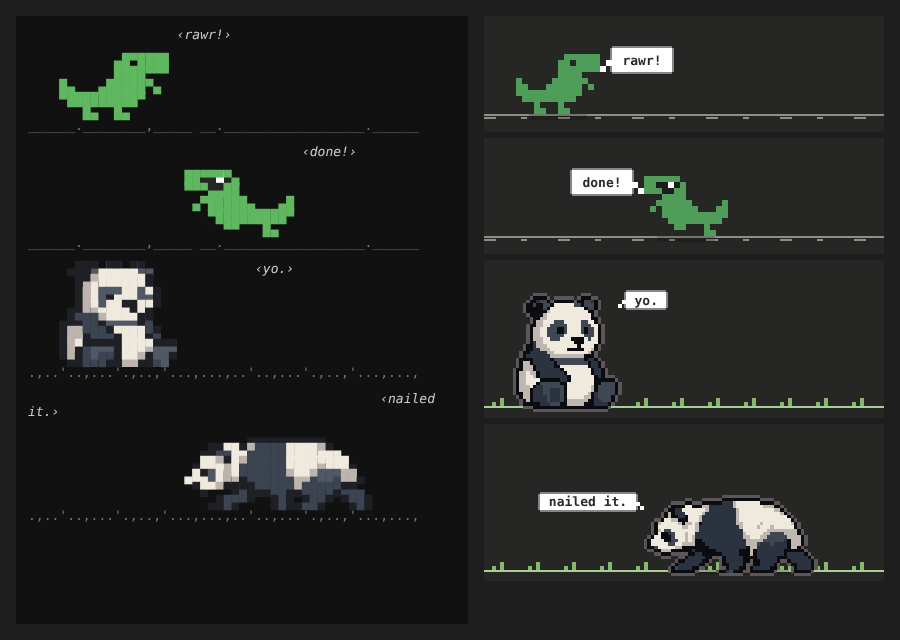
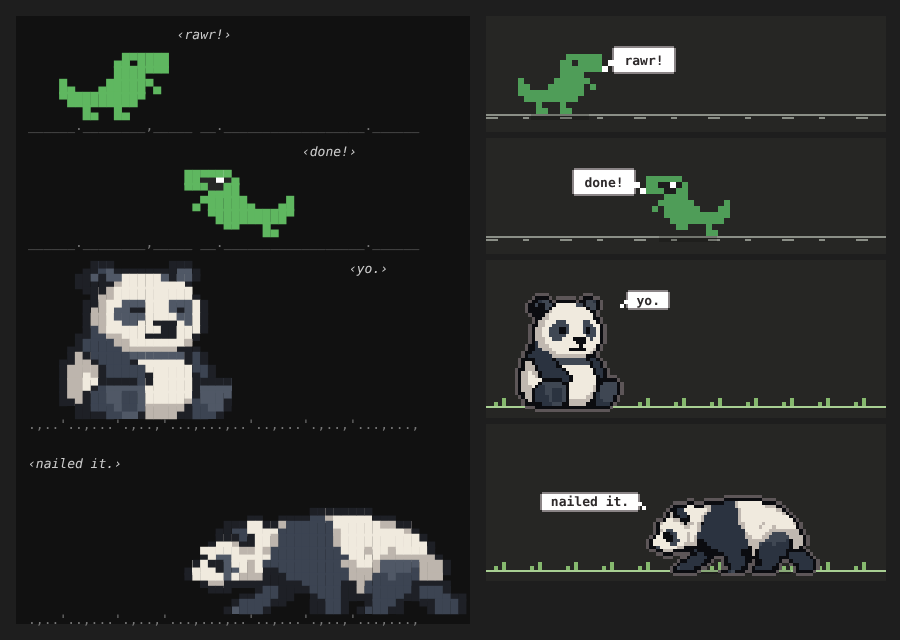
buddy: sharper panda in the terminal
The panda now uses up to 12 text rows (24 pixel rows) in the terminal
instead of 8, shrinking only when the band is shorter, and a wider strip
so the walking pose keeps the same scale as the sitting one.

Claude-Session: https://claude.ai/code/session_01FB6BJrRqbn2oSwVncdYdDf

diff --git a/plugins/buddy/hooks/panda.ts b/plugins/buddy/hooks/panda.ts
@@ -292,9 +292,8 @@ function paint(p: { w: number; h: number; shapes: Shape[] }, scale: number, with
 
 // ---------------------------------------------------------------- drawing
 
-const TERM_SCALE = 0.62
-const TERM_W = 24
-const TERM_ROWS = 16 // pixel rows, two per text row
+const TERM_W = 36 // columns the terminal strip may take
+const TERM_MAX_ROWS = 24 // pixel rows at most, two per text row
 
 const TERM = {
   E: '#1e2026',
@@ -355,16 +354,19 @@ export const panda: Character = {
   width: TERM_W,
   canMunch: true,
 
-  terminal(s, cols) {
+  terminal(s, cols, rows) {
     let ground = ''
     for (let i = 0; i < cols; i++) ground += GRASS[i % GRASS.length]
     const p = pose(s)
-    // Scale down to the terminal, narrower still for a pose too wide to fit
-    const sp = mirror(render(p, Math.min(TERM_SCALE, TERM_W / p.w, TERM_ROWS / p.h), false), s.dir)
+    // As many pixel rows as the band allows, up to the cap; the sitting pose
+    // sets the scale, so the other poses come out in proportion to it
+    const pixelRows = Math.max(8, Math.min(TERM_MAX_ROWS, rows - (rows % 2)))
+    const scale = Math.min(pixelRows / SIT_H, TERM_W / p.w, pixelRows / p.h)
+    const sp = mirror(render(p, scale, false), s.dir)
     // Feet on the bottom row, lifted while jumping as far as the band allows
-    const lift = Math.min(s.air, TERM_ROWS - sp.length)
+    const lift = Math.min(s.air, pixelRows - sp.length)
     return {
-      rows: halfBlocks(sp, TERM_ROWS - sp.length - lift, TERM_W, TERM_ROWS, TERM),
+      rows: halfBlocks(sp, pixelRows - sp.length - lift, TERM_W, pixelRows, TERM),
       ground,
       groundColor: 'green',
     }

diff --git a/plugins/buddy/hooks/register.tsx b/plugins/buddy/hooks/register.tsx
@@ -316,7 +316,9 @@ export const register: Register = on => {
       ours = <Svg source={who.svg(at, cols)} alt={s.bubble ? `Your buddy says: ${s.bubble}` : 'Your buddy'} />
     } else {
       const { Box, Text } = $.ui.resolve(e)
-      const drawing = who.terminal(at, cols)
+      // Pixel rows the buddy may use: the band's rows less one for the ground
+      const rows = Math.max(8, (e.props.maxRows - 1) * 2)
+      const drawing = who.terminal(at, cols, rows)
       const lines = drawing.rows.map((row, i) => {
         const sprite = runs(row).map((run, j) =>
           run.fg ? (

diff --git a/plugins/buddy/hooks/shared.ts b/plugins/buddy/hooks/shared.ts
@@ -7,7 +7,8 @@ export type Character = {
   width: number
   /** Whether it sits down for a snack when idle */
   canMunch: boolean
-  terminal: (s: Scene, cols: number) => TerminalDrawing
+  /** Draw for the terminal, in `cols` columns and up to `rows` pixel rows (two per text row) */
+  terminal: (s: Scene, cols: number, rows: number) => TerminalDrawing
   svg: (s: Scene, cols: number) => string
   lines: {
     hi: string

diff --git a/plugins/buddy/hooks/dino.ts b/plugins/buddy/hooks/dino.ts
@@ -61,7 +61,7 @@ export const dino: Character = {
   width: W,
   canMunch: false,
 
-  terminal(s, cols) {
+  terminal(s, cols, _rows) {
     let ground = ''
     for (let i = 0; i < cols; i++) ground += GROUND[(i + s.ground) % GROUND.length]
     return {
